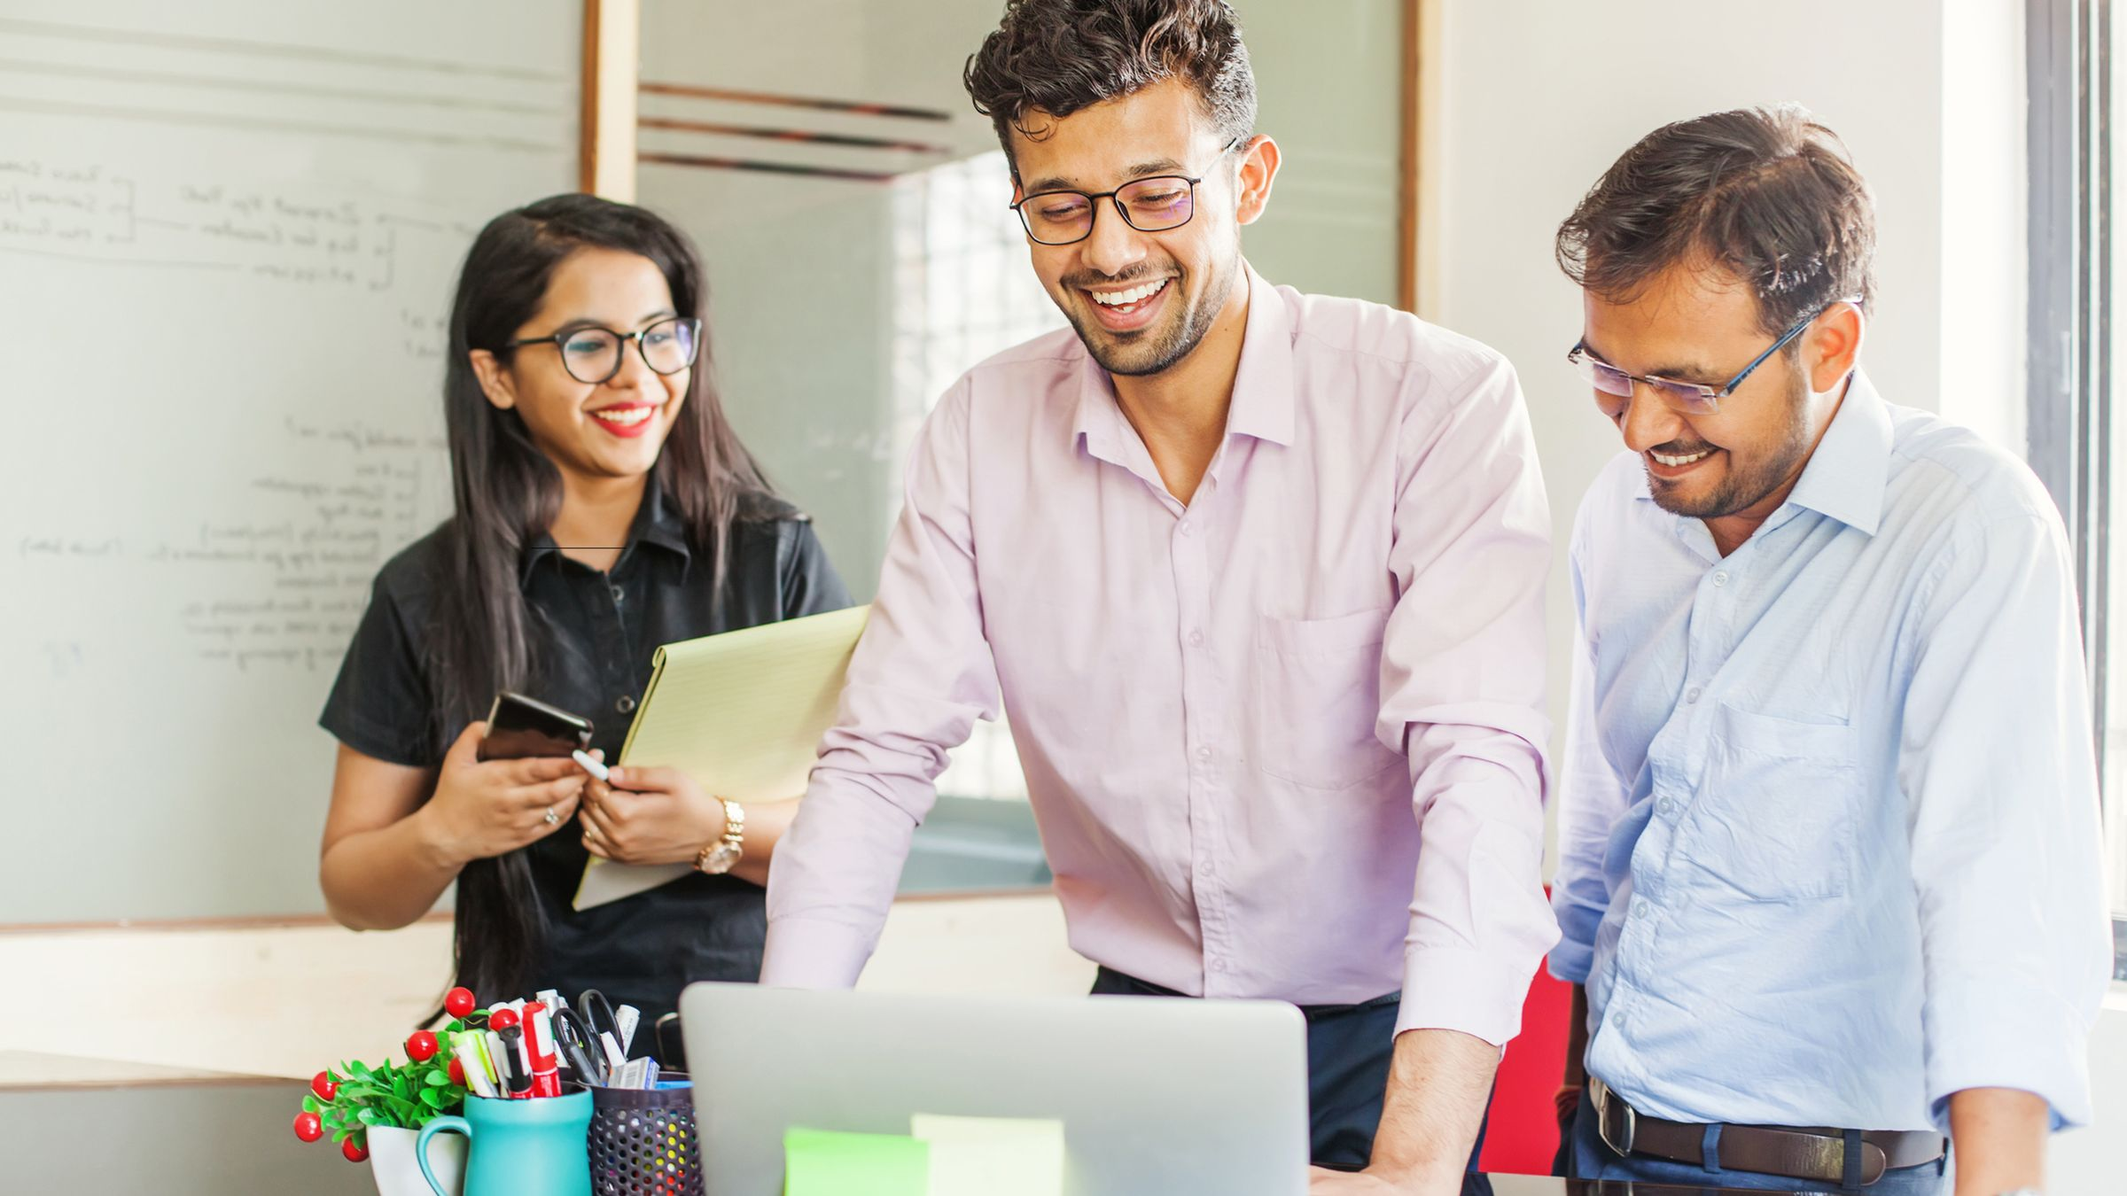
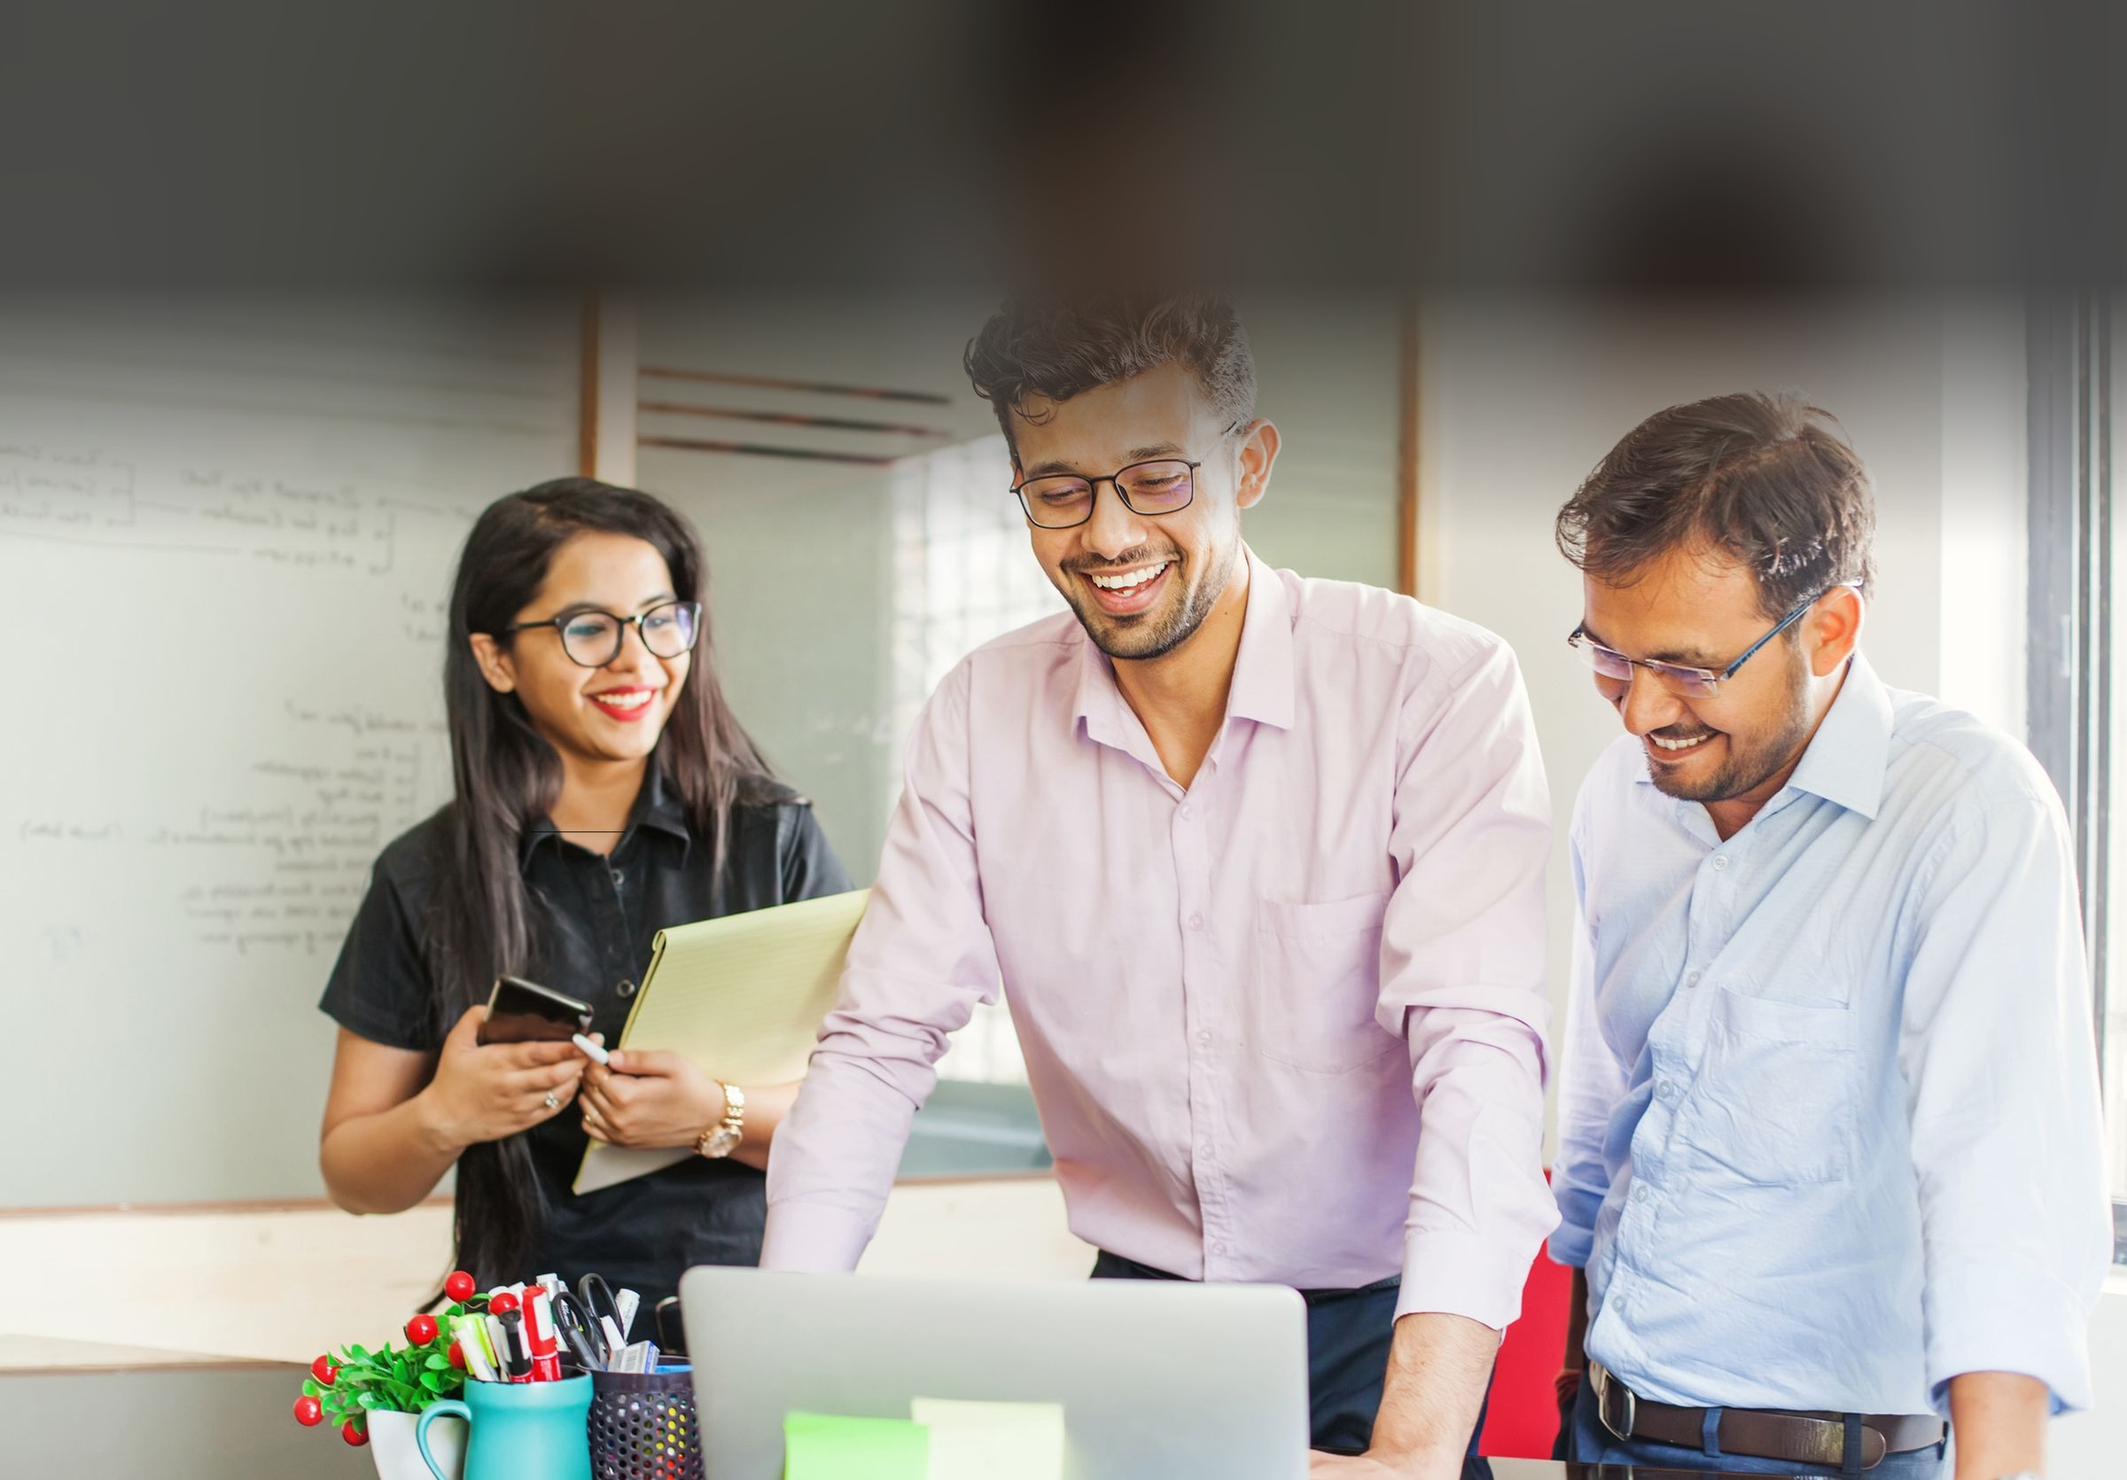
Aligned the text content in the hero section for the mobile view

diff --git a/src/components/views/HomeView.jsx b/src/components/views/HomeView.jsx
@@ -1,4 +1,5 @@
 import React, { useState, useEffect } from 'react';
+import { motion, AnimatePresence } from 'framer-motion';
 import {
   CheckCircle2,
   ShieldCheck,
@@ -24,6 +25,7 @@ import CoreSolutionsGrid from '../common/CoreSolutionsGrid';
 import IndustryCardGrid from '../common/IndustryCardGrid';
 import ParallaxFeatureSection from '../common/ParallaxFeatureSection';
 import ScaleAtSpeedSection from '../common/ScaleAtSpeedSection';
+import TestimonialsSection from '../common/TestimonialsSection';
 
 // Core Solutions from home.md
 const homeCoreSolutions = [
@@ -120,6 +122,29 @@ const homeCaseStudies = [
   }
 ];
 
+// SAMPLE testimonial copy, placeholder only, swap in verified client quotes (with their
+// sign-off) before this ships to production.
+const homeTestimonials = [
+  {
+    id: 'testimonial-qa',
+    text: 'NForceOne\'s QA team caught regressions our in-house testers consistently missed. Their automated suite cut our release cycle time significantly while raising our defect-escape rate.',
+    name: 'Client Name',
+    role: 'VP of Engineering, Fintech Platform'
+  },
+  {
+    id: 'testimonial-dev',
+    text: 'We came to NForceOne needing a microservices rebuild under a tight deadline. Their development team shipped a production-ready platform without cutting corners on architecture.',
+    name: 'Client Name',
+    role: 'CTO, Enterprise SaaS Company'
+  },
+  {
+    id: 'testimonial-pega',
+    text: 'Their certified Pega architects untangled years of workflow debt and automated processes that used to take our operations team days to run manually.',
+    name: 'Client Name',
+    role: 'Director of Operations, Healthcare Provider'
+  }
+];
+
 // Hero Slider: slide 1 copy is the existing home.md hero copy;
 // slides 2-3 summarize Quality Engineering/Software Development and AI/Cloud/Data solutions.
 const heroSlides = [
@@ -211,16 +236,19 @@ export default function HomeView({ setCurrentTab, navigateToService, navigateToI
     <main className="flex-1 bg-white text-neutral-900">
 
       {/* 1. HERO SECTION: image slider (3 slides) with overlay copy + prev/next controls */}
-      <section className="relative w-full min-h-[85svh] sm:min-h-[85vh] flex items-center overflow-hidden bg-neutral-950 text-white border-b border-zinc-800 py-16 sm:py-20 lg:py-28">
+      <section className="relative w-full h-[85svh] sm:h-[85vh] flex items-start overflow-hidden bg-neutral-950 text-white border-b border-zinc-800 pt-24 sm:pt-28 lg:pt-32 pb-32 sm:pb-36 lg:pb-40">
 
-        {/* Slide backgrounds (crossfade, shown at full brightness) */}
+        {/* Slide backgrounds (crossfade, shown at full brightness). Overlay eases from
+            near-opaque on the left (behind the text) to a light, consistent tint on the
+            right, so the photo emerges gradually instead of via a hard-edged split. */}
         <div className="absolute inset-0">
           {heroSlides.map((s, idx) => (
             <div
               key={s.id}
-              className={`absolute inset-0 bg-cover bg-center transition-opacity duration-[1500ms] ease-in-out ${idx === activeSlide ? 'opacity-100' : 'opacity-0'}`}
+              className={`absolute inset-0 bg-cover bg-center transition-opacity duration-[1000ms] ease-in-out ${idx === activeSlide ? 'opacity-100' : 'opacity-0'}`}
               style={{
-                backgroundImage: `linear-gradient(to right, rgba(0,0,0,0.88) 0%, rgba(0,0,0,0.72) 35%, rgba(0,0,0,0.4) 60%, rgba(0,0,0,0.15) 85%), url('${s.image}')`,
+                backgroundImage: `linear-gradient(to right, rgba(0,0,0,0.85) 0%, rgba(0,0,0,0.82) 22%, rgba(0,0,0,0.72) 36%, rgba(0,0,0,0.55) 48%, rgba(0,0,0,0.38) 58%, rgba(0,0,0,0.24) 68%, rgba(0,0,0,0.14) 80%, rgba(0,0,0,0.08) 100%), url('${s.image}')`,
+                backgroundPosition: s.imagePosition || 'center',
               }}
               aria-hidden="true"
             ></div>
@@ -228,80 +256,108 @@ export default function HomeView({ setCurrentTab, navigateToService, navigateToI
         </div>
 
         {/* Scrim: darkens the text/controls zones regardless of the underlying photo,
-            so copy stays legible even over light or busy imagery. */}
+            so copy stays legible even over light or busy imagery. Combined with the
+            per-slide overlay above, this is what produces the smooth left-dark to
+            right-visible reveal without a visible seam. */}
         <div
           className="absolute inset-0 z-10"
           style={{
             background:
-              'linear-gradient(to right, rgba(0,0,0,0.78) 0%, rgba(0,0,0,0.55) 35%, rgba(0,0,0,0.25) 60%, rgba(0,0,0,0.05) 85%), linear-gradient(to top, rgba(0,0,0,0.65) 0%, rgba(0,0,0,0) 30%)',
+              'linear-gradient(to right, rgba(0,0,0,0.55) 0%, rgba(0,0,0,0.5) 25%, rgba(0,0,0,0.38) 40%, rgba(0,0,0,0.22) 55%, rgba(0,0,0,0.1) 70%, rgba(0,0,0,0.02) 100%), linear-gradient(to top, rgba(0,0,0,0.6) 0%, rgba(0,0,0,0) 30%)',
           }}
           aria-hidden="true"
         ></div>
 
-        <div className="relative z-20 max-w-[1600px] mx-auto px-6 lg:px-12 w-full grid grid-cols-12 gap-8 items-center">
-          <div className="col-span-12 lg:col-span-6 flex flex-col items-start space-y-6">
+        <div className="relative z-20 max-w-[1280px] mx-auto px-6 w-full grid grid-cols-12 gap-8 items-center">
+          <div className="col-span-12 lg:col-span-6 relative">
+            <AnimatePresence mode="wait">
+              <motion.div key={slide.id} className="flex flex-col items-start space-y-5">
 
-            <h1 className="text-4xl sm:text-6xl lg:text-6xl font-black tracking-tight text-white leading-[1.1] max-w-xl drop-shadow-[0_4px_14px_rgba(0,0,0,0.9)]">
-              {slide.titleLead}{' '}
-              <span className="text-transparent bg-clip-text bg-gradient-to-r from-nforce-red via-red-400 to-white drop-shadow-[0_4px_14px_rgba(0,0,0,0.9)]">{slide.titleHighlight}</span>{' '}
-              {slide.titleTail}
-            </h1>
+                <motion.h1
+                  initial={{ opacity: 0, y: 14 }}
+                  animate={{ opacity: 1, y: 0 }}
+                  exit={{ opacity: 0, y: -14 }}
+                  transition={{ duration: 0.6, ease: [0.4, 0, 0.2, 1] }}
+                  className="text-3xl sm:text-4xl lg:text-5xl font-black tracking-tight text-white leading-[1.15] max-w-xl drop-shadow-[0_4px_14px_rgba(0,0,0,0.9)]"
+                >
+                  {slide.titleLead}{' '}
+                  <span className="text-transparent bg-clip-text bg-gradient-to-r from-nforce-red via-red-400 to-white drop-shadow-[0_4px_14px_rgba(0,0,0,0.9)]">{slide.titleHighlight}</span>{' '}
+                  {slide.titleTail}
+                </motion.h1>
 
-            <p className="text-zinc-100 text-lg sm:text-xl font-normal leading-relaxed max-w-2xl drop-shadow-[0_3px_10px_rgba(0,0,0,0.9)]">
-              {slide.subtitle}
-            </p>
+                <motion.p
+                  initial={{ opacity: 0, y: 14 }}
+                  animate={{ opacity: 1, y: 0 }}
+                  exit={{ opacity: 0, y: -14 }}
+                  transition={{ duration: 0.6, ease: [0.4, 0, 0.2, 1], delay: 0.08 }}
+                  className="text-zinc-100 text-base sm:text-lg font-normal leading-relaxed max-w-xl drop-shadow-[0_3px_10px_rgba(0,0,0,0.9)]"
+                >
+                  {slide.subtitle}
+                </motion.p>
 
-            <div className="pt-2 flex flex-wrap gap-4">
-              <button
-                onClick={() => { setCurrentTab(slide.primaryCta.tab); window.scrollTo(0, 0); }}
-                className="group relative px-8 py-4 bg-nforce-red hover:bg-nforce-red text-white font-bold text-xs uppercase tracking-widest rounded shadow-[0_10px_20px_rgba(175,16,26,0.3)] transition-all hover:-translate-y-1"
-              >
-                {slide.primaryCta.label}
-              </button>
+                <motion.div
+                  initial={{ opacity: 0, y: 14 }}
+                  animate={{ opacity: 1, y: 0 }}
+                  exit={{ opacity: 0, y: -14 }}
+                  transition={{ duration: 0.6, ease: [0.4, 0, 0.2, 1], delay: 0.16 }}
+                  className="pt-1 flex flex-wrap gap-4"
+                >
+                  <button
+                    onClick={() => { setCurrentTab(slide.primaryCta.tab); window.scrollTo(0, 0); }}
+                    className="group relative px-8 py-4 bg-nforce-red hover:bg-nforce-red text-white font-bold text-xs uppercase tracking-widest rounded shadow-[0_10px_20px_rgba(175,16,26,0.3)] transition-all hover:-translate-y-1"
+                  >
+                    {slide.primaryCta.label}
+                  </button>
 
-              <button
-                onClick={() => { setCurrentTab(slide.secondaryCta.tab); window.scrollTo(0, 0); }}
-                className="px-8 py-4 border-2 border-zinc-400 text-zinc-200 hover:bg-white hover:text-black font-bold text-xs uppercase tracking-widest rounded transition-all"
-              >
-                {slide.secondaryCta.label}
-              </button>
-            </div>
+                  <button
+                    onClick={() => { setCurrentTab(slide.secondaryCta.tab); window.scrollTo(0, 0); }}
+                    className="px-8 py-4 border-2 border-zinc-400 text-zinc-200 hover:bg-white hover:text-black font-bold text-xs uppercase tracking-widest rounded transition-all"
+                  >
+                    {slide.secondaryCta.label}
+                  </button>
+                </motion.div>
 
+              </motion.div>
+            </AnimatePresence>
           </div>
         </div>
 
-        {/* Slider controls: prev/next + dot indicators */}
-        <div className="absolute bottom-0 left-0 right-0 z-20 flex items-center justify-between px-4 sm:px-10">
-          <button
-            onClick={() => goToSlide(activeSlide - 1)}
-            aria-label="Previous slide"
-            className="flex items-center gap-2 px-4 sm:px-5 py-4 text-xs font-bold uppercase tracking-widest text-zinc-100 hover:text-white transition-colors drop-shadow-[0_2px_6px_rgba(0,0,0,0.9)]"
-          >
-            <span aria-hidden="true">&#8592;</span>
-            <span className="hidden sm:inline">Previous</span>
-          </button>
+        {/* Slider controls: prev/next + dot indicators, lifted off the viewport edge with
+            its own breathing room below the CTA row. Shares the navbar/hero-content
+            container so Previous/Next line up with the logo and heading edges. */}
+        <div className="absolute bottom-6 sm:bottom-8 lg:bottom-10 left-0 right-0 z-20">
+          <div className="max-w-[1280px] mx-auto px-6 flex items-center justify-between">
+            <button
+              onClick={() => goToSlide(activeSlide - 1)}
+              aria-label="Previous slide"
+              className="flex items-center gap-2 -ml-4 sm:-ml-5 px-4 sm:px-5 py-3 text-xs font-bold uppercase tracking-widest text-zinc-300 hover:text-white transition-colors drop-shadow-[0_2px_6px_rgba(0,0,0,0.9)]"
+            >
+              <span aria-hidden="true">&#8592;</span>
+              <span className="hidden sm:inline">Previous</span>
+            </button>
 
-          <div className="flex items-center gap-1 pb-4">
-            {heroSlides.map((s, idx) => (
-              <button
-                key={s.id}
-                onClick={() => goToSlide(idx)}
-                aria-label={`Go to slide ${idx + 1}`}
-                className="group p-2.5 flex items-center justify-center"
-              >
-                <span className={`block h-1.5 rounded-full transition-all shadow-[0_1px_4px_rgba(0,0,0,0.9)] ${idx === activeSlide ? 'w-8 bg-nforce-red' : 'w-1.5 bg-white/70 group-hover:bg-white'}`}></span>
-              </button>
-            ))}
+            <div className="flex items-center gap-1">
+              {heroSlides.map((s, idx) => (
+                <button
+                  key={s.id}
+                  onClick={() => goToSlide(idx)}
+                  aria-label={`Go to slide ${idx + 1}`}
+                  className="group p-2.5 flex items-center justify-center"
+                >
+                  <span className={`block h-1.5 rounded-full transition-all shadow-[0_1px_4px_rgba(0,0,0,0.9)] ${idx === activeSlide ? 'w-8 bg-nforce-red' : 'w-1.5 bg-white/70 group-hover:bg-white'}`}></span>
+                </button>
+              ))}
+            </div>
+
+            <button
+              onClick={() => goToSlide(activeSlide + 1)}
+              aria-label="Next slide"
+              className="flex items-center gap-2 -mr-4 sm:-mr-5 px-4 sm:px-5 py-3 text-xs font-bold uppercase tracking-widest text-zinc-300 hover:text-white transition-colors drop-shadow-[0_2px_6px_rgba(0,0,0,0.9)]"
+            >
+              <span className="hidden sm:inline">Next</span>
+              <span aria-hidden="true">&#8594;</span>
+            </button>
           </div>
-
-          <button
-            onClick={() => goToSlide(activeSlide + 1)}
-            aria-label="Next slide"
-            className="flex items-center gap-2 px-4 sm:px-5 py-4 text-xs font-bold uppercase tracking-widest text-zinc-100 hover:text-white transition-colors drop-shadow-[0_2px_6px_rgba(0,0,0,0.9)]"
-          >
-            <span className="hidden sm:inline">Next</span>
-            <span aria-hidden="true">&#8594;</span>
-          </button>
         </div>
       </section>
 
@@ -404,6 +460,9 @@ export default function HomeView({ setCurrentTab, navigateToService, navigateToI
 
         </div>
       </section>
+
+      {/* 8. TESTIMONIALS */}
+      <TestimonialsSection items={homeTestimonials} />
 
       {/* 9. PARTNER WITH US & HOW IT WORKS: from home.md */}
       <section className="py-24 bg-neutral-950 text-white">

diff --git a/src/components/common/TestimonialsSection.jsx b/src/components/common/TestimonialsSection.jsx
@@ -1,0 +1,91 @@
+import { useEffect, useState } from 'react';
+import { Quote, Star } from 'lucide-react';
+
+// Client testimonial carousel: single-slide-at-a-time, dot-navigated, autoplay every 5s
+// (pauses while a visitor is interacting with the dots), styled to match the dark
+// CaseStudySection/PartnerWithUs sections it sits between on the homepage.
+export default function TestimonialsSection({ items }) {
+  const [activeIndex, setActiveIndex] = useState(0);
+
+  useEffect(() => {
+    if (items.length <= 1) return;
+    const timer = setInterval(() => {
+      setActiveIndex((prev) => (prev + 1) % items.length);
+    }, 5000);
+    return () => clearInterval(timer);
+  }, [items.length]);
+
+  if (!items || items.length === 0) return null;
+
+  const active = items[activeIndex];
+  const initials = active.name
+    .split(' ')
+    .map((part) => part[0])
+    .join('')
+    .slice(0, 2)
+    .toUpperCase();
+
+  return (
+    <section
+      className="py-24 text-white border-b border-zinc-800"
+      style={{ background: 'linear-gradient(to bottom, #000000 0%, #000000 45%, #200000 70%, #3A0000 100%)' }}
+    >
+      <div className="max-w-[900px] mx-auto px-6 text-center">
+        <span className="inline-block px-3 py-1 bg-nforce-red/10 text-nforce-red text-xs font-bold rounded border border-nforce-red/20 uppercase tracking-[0.2em]">
+          Testimonials
+        </span>
+        <h2 className="text-3xl lg:text-4xl font-extrabold tracking-tight mt-4">
+          Trusted by the Teams We Scale
+        </h2>
+        <p className="text-zinc-400 text-sm max-w-xl mx-auto mt-3">
+          Feedback from the clients we've partnered with across quality engineering, software
+          development, and enterprise automation.
+        </p>
+
+        <div className="mt-14 min-h-[280px] flex flex-col items-center justify-center">
+          <Quote className="w-9 h-9 text-nforce-red/40 mb-4" />
+
+          <p className="text-lg lg:text-2xl font-medium leading-relaxed text-zinc-100 max-w-3xl">
+            &ldquo;{active.text}&rdquo;
+          </p>
+
+          <div className="flex items-center gap-1 mt-6">
+            {[...Array(5)].map((_, i) => (
+              <Star key={i} className="w-4 h-4 fill-nforce-red text-nforce-red" />
+            ))}
+          </div>
+
+          <div className="flex items-center gap-3 mt-6">
+            <div className="w-12 h-12 rounded-full bg-nforce-red/15 border border-nforce-red/30 flex items-center justify-center text-nforce-red font-bold text-sm shrink-0">
+              {initials}
+            </div>
+            <div className="text-left">
+              <div className="font-bold text-white text-sm">{active.name}</div>
+              <div className="text-zinc-500 text-xs">{active.role}</div>
+            </div>
+          </div>
+        </div>
+
+        {items.length > 1 && (
+          <div className="flex justify-center gap-2 mt-10">
+            {items.map((item, idx) => (
+              <button
+                key={item.id}
+                onClick={() => setActiveIndex(idx)}
+                aria-label={`View testimonial from ${item.name}`}
+                aria-current={idx === activeIndex ? 'true' : undefined}
+                className="p-2 -m-2"
+              >
+                <span
+                  className={`block h-1.5 rounded-full transition-all ${
+                    idx === activeIndex ? 'w-8 bg-nforce-red' : 'w-1.5 bg-zinc-700 hover:bg-zinc-500'
+                  }`}
+                />
+              </button>
+            ))}
+          </div>
+        )}
+      </div>
+    </section>
+  );
+}
